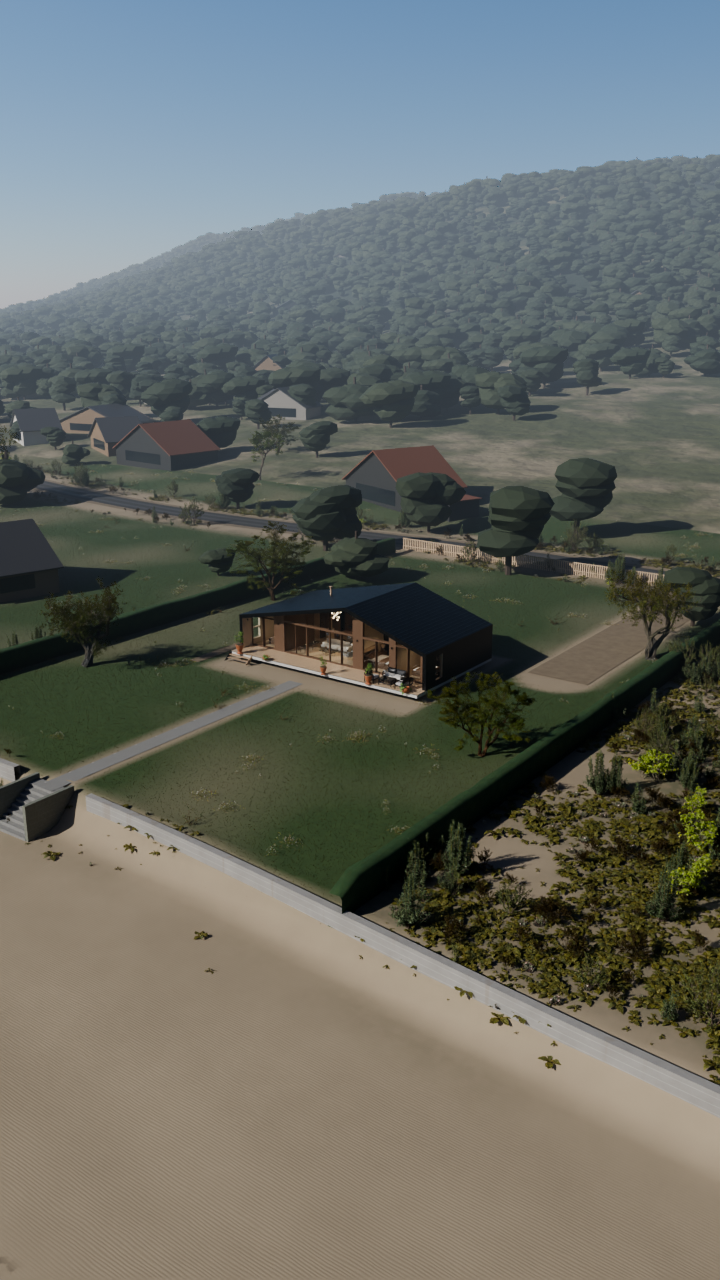
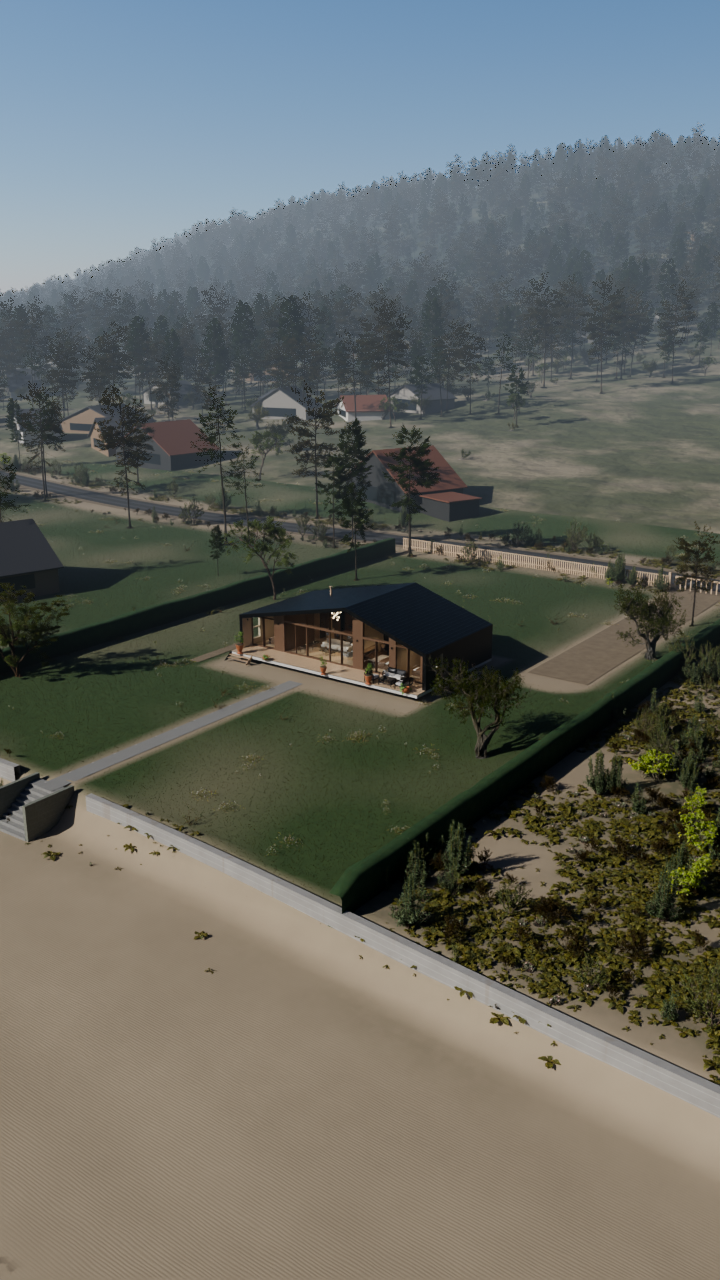
Casa Mañío: árboles de verdad en vez de copas de esferas
La revisión dijo que los árboles se veían muy falsos, y tenía razón: la escena seguía usando el
truco de Huingán —tronco de cilindro más copas de ico-esferas desplazadas con ruido— que allá
pasa porque el bosque queda a 300 m y con bruma. Acá hay grupos de pinos a los dos lados del
camino, a treinta metros de la cámara en el arco frontal, y se leían como brócoli.

Es el mismo problema que ya había aparecido en el lago de Boldo y que RECETA.md advertía. Se
reemplazan `foliage_mat()` y `make_trees()` por `build_trees()`, que carga modelos reales de
Poly Haven (CC0) en dos bandas de detalle: LOD1 para los grupos del condominio y los
antejardines, LOD2 para el bosque del cerro. Pino y ciprés para la masa —que es lo que hay en la
costa central— e island_tree y tree_small para la copa ancha de los jardines. Los baja
`tools/get_assets_lago.sh`, que ya existía para Boldo (1,3 GB, en .gitignore).

De paso el bosque del cerro sube de densidad (0,05 a 0,075 con distancia mínima 4 m), que con
árboles de verdad ya no se ve como una masa sino como pinar.

Cuesta unos 20 s más por cuadro. Vale la pena.

Claude-Session: https://claude.ai/code/session_013App5MGe6WRx2aeTD9LYuY

Changed region(s): [[0.0, 0.0938, 1.0, 0.5312], [0.0, 0.4688, 0.3361, 0.5312], [0.6111, 0.5312, 0.7944, 0.5938]]

diff --git a/casa_manio_3d.py b/casa_manio_3d.py
@@ -69,6 +69,7 @@ ROOT = os.path.dirname(os.path.abspath(__file__))
 CASA = os.path.join(ROOT, "assets", "manio", "casa.blend")
 CAMPO = os.path.join(ROOT, "assets", "campo", "pastos_botaniq.blend")
 PH = os.path.join(ROOT, "assets", "playa", "ph")   # Poly Haven (get_assets_playa.sh + get_assets_urbano.sh)
+PHL = os.path.join(ROOT, "assets", "lago", "ph")   # árboles de verdad (tools/get_assets_lago.sh)
 HDRI = os.path.join(PH, "hdri", "secluded_beach_2k.exr")   # tarde de verano en la costa, CC0
 HDRI_SUN_U = 0.6420          # columna del sol en el HDRI (0-1), medida con tools/medir_sol_hdri.py
 SUN_ELEV = 32.0              # elevación del sol en el HDRI (más alto que en Huingán: es verano)
@@ -1055,12 +1056,12 @@ def build_landscape(M):
 
 
 # ---------------------------------------------------------------- vegetación
-def load_ph(lib, ident, lod="LOD1", tag=None, nombres=None):
+def load_ph(lib, ident, lod="LOD1", tag=None, nombres=None, base=None):
     """Variantes de un modelo de Poly Haven (una por letra), en el nivel de detalle pedido, como
     colección para instanciar al azar. Se dejan en el origen. `nombres` pide objetos exactos, que
     es lo que hace falta con los árboles: sus .blend traen además ramas, hojas y troncos sueltos
     que no son el árbol entero (si se toman todos, el Pick Instance planta troncos pelados)."""
-    path = os.path.join(PH, ident, ident + ".blend")
+    path = os.path.join(base or PH, ident, ident + ".blend")
     with bpy.data.libraries.load(path) as (a, b):
         if nombres is not None:
             names = [n for n in a.objects if n in set(nombres)]
@@ -1428,14 +1429,15 @@ def build_cierros(M, coll):
         z + 1.14, z + 1.30, M["fachada"], coll)
 
 
-def place_ornamentales(coll, orn, pinos):
+def place_ornamentales(coll, orn, cerca):
     """Arbolado del condominio. **No hay hilera de árboles de vereda**: la versión anterior
     alineaba jacarandás cada 30 m sobre la vereda y eso es lo que hace que una calle se lea como
     calle de ciudad. Acá los árboles van en grupos irregulares entre los predios y a lo largo del
     camino, con pinos y cipreses —que es lo que hay en la costa central— y algún ornamental de
     hoja ancha en los antejardines."""
-    arb = list(orn.objects)
-    pin = list(pinos)
+    # las coníferas hacen la masa del condominio; la copa ancha va en los antejardines
+    pin = [o for o in cerca.objects if "fir_" in o.name or "pine_" in o.name]
+    arb = [o for o in cerca.objects if o not in pin] + list(orn.objects)
     rnd = random.Random(17)
 
     def poner(x, y, s, fuente=None, giro=None):
@@ -1463,7 +1465,7 @@ def place_ornamentales(coll, orn, pinos):
             xx = x + rnd.uniform(-5, 5)
             poner(xx, lote_y(xx, dd), rnd.uniform(9.0, 16.0), pin)
     # nuestro antejardín: a los costados, nunca delante del ventanal corrido
-    for x, dd, s in ((-7.5, 40.0, 6.5), (23.5, 43.0, 5.0), (-8.5, 62.0, 7.0), (24.5, 66.0, 6.0),
+    for x, dd, s in ((-9.5, 36.0, 6.5), (23.5, 43.0, 5.0), (-8.5, 62.0, 7.0), (24.5, 66.0, 6.0),
                      (-7.0, 72.0, 9.0), (24.0, 76.0, 8.5)):
         poner(x, lote_y(x, dd), s, pin if s > 8 else None)
     # jardines de los vecinos, en grupos sueltos
@@ -1570,68 +1572,47 @@ def build_neighbors(coll):
             ob.rotation_euler = (0, 0, math.radians(rot))
 
 
-def foliage_mat(name, c1, c2):
-    m, n, l = new_mat(name)
-    N = Nodos(n, l)
-    b = n["Principled BSDF"]
-    info = n.new("ShaderNodeObjectInfo")
-    tc = n.new("ShaderNodeTexCoord")
-    v = N.math("ADD", N.math("MULTIPLY", info.outputs["Random"], 0.6), N.math("MULTIPLY", N.noise(tc.outputs["Object"], 3.0, 4), 0.4))
-    l.new(N.mix(v, c1, c2), b.inputs["Base Color"])
-    b.inputs["Roughness"].default_value = 0.85
-    bmp = n.new("ShaderNodeBump")
-    bmp.inputs["Strength"].default_value = 0.8
-    l.new(N.noise(tc.outputs["Object"], 4.0, 4), bmp.inputs["Height"])
-    l.new(bmp.outputs["Normal"], b.inputs["Normal"])
-    return m
+def build_trees(lib):
+    """Árboles reales de Poly Haven (CC0, tools/get_assets_lago.sh), en dos bandas de detalle:
+      cerca  LOD1, para los grupos del condominio y los antejardines (hasta ~120 m)
+      lejos  LOD2 en las coníferas, para el cerro y el fondo
+
+    **No son de relleno.** La primera versión usaba el truco de Huingán —tronco de cilindro más
+    copas de ico-esferas desplazadas con ruido— que allá pasaba porque el bosque quedaba a 300 m
+    y con bruma. Acá los árboles están **dentro** de la escena: grupos de pinos a los dos lados
+    del camino, a treinta metros de la cámara en el arco frontal, y ahí las bolas desplazadas se
+    leen como brócoli. Es exactamente lo que ya había pasado en el lago de Boldo (ver RECETA.md
+    §5): con modelos de verdad la escena cambia por completo.
+
+    Pino y ciprés para la masa (que es lo que hay en la costa central: pino insigne y ciprés
+    macrocarpa de cortina), island_tree y tree_small para la copa ancha de los jardines."""
+    cerca = bpy.data.collections.new("ArbolesCerca")
+    lejos = bpy.data.collections.new("ArbolesLejos")
+    for c in (cerca, lejos):
+        lib.children.link(c)
+    conif = [f"{t}_tree_01_{v}" for t in ("fir", "pine") for v in "abc"]
+    ancha = ["island_tree_01", "island_tree_02", "island_tree_03"]
+    for dest, lod_c in ((cerca, "LOD1"), (lejos, "LOD2")):
+        for ident in ("fir_tree_01", "pine_tree_01"):
+            load_ph(dest, ident, base=PHL, nombres=[f"{n}_{lod_c}" for n in conif])
+        for ident in ancha:
+            load_ph(dest, ident, base=PHL, nombres=[f"{ident}_LOD1", f"{ident}_a_LOD1"])
+        load_ph(dest, "tree_small_02", base=PHL, nombres=["tree_small_02_LOD1"])
+    for c in (cerca, lejos):
+        # las colecciones de load_ph quedan anidadas; se aplanan para que Pick Instance las vea
+        for sub in list(c.children):
+            for o in list(sub.objects):
+                sub.objects.unlink(o)
+                c.objects.link(o)
+            c.children.unlink(sub)
+            bpy.data.collections.remove(sub)
+        print("  %-14s %2d árboles  alturas %s"
+              % (c.name, len(c.objects), sorted(round(o.dimensions.z, 1) for o in c.objects)))
+    return cerca, lejos
 
 
-def make_trees(lib):
-    """Pinos y cipreses macrocarpa simples (sólo se ven a lo lejos): tronco + copas irregulares."""
-    bark = principled("Corteza", (0.08, 0.06, 0.045), 0.9)
-    pino = foliage_mat("CopaPino", (0.018, 0.03, 0.016), (0.045, 0.06, 0.03))
-    cipres = foliage_mat("CopaCipres", (0.022, 0.036, 0.018), (0.055, 0.07, 0.033))
-    out = []
-    rnd = random.Random(3)
-    for k in range(4):
-        parts = []
-        h = rnd.uniform(9, 15)
-        bpy.ops.mesh.primitive_cylinder_add(vertices=6, radius=0.22, depth=h, location=(0, 0, h / 2))
-        parts.append(bpy.context.object)
-        parts[-1].data.materials.append(bark)
-        cyp = k >= 2
-        for j in range(5 if cyp else 4):
-            bpy.ops.mesh.primitive_ico_sphere_add(subdivisions=2, radius=1.0)
-            c = bpy.context.object
-            if cyp:   # macrocarpa: copa ancha y aplanada, en capas
-                c.location = (rnd.uniform(-1.5, 1.5), rnd.uniform(-1.5, 1.5), h * rnd.uniform(0.55, 0.95))
-                c.scale = (rnd.uniform(2.5, 3.5), rnd.uniform(2.5, 3.5), rnd.uniform(1.3, 1.9))
-            else:     # pino: copa alta y redondeada
-                c.location = (rnd.uniform(-0.8, 0.8), rnd.uniform(-0.8, 0.8), h * (0.72 + 0.08 * j))
-                c.scale = (rnd.uniform(1.8, 2.6), rnd.uniform(1.8, 2.6), rnd.uniform(0.9, 1.3))
-            dsp = c.modifiers.new("d", "DISPLACE")
-            tex = bpy.data.textures.new(f"copa{k}{j}", "CLOUDS")
-            tex.noise_scale = 0.6
-            dsp.texture, dsp.strength = tex, 0.6
-            c.data.materials.append(cipres if cyp else pino)
-            parts.append(c)
-        bpy.ops.object.select_all(action="DESELECT")
-        for o in parts:
-            o.select_set(True)
-        bpy.context.view_layer.objects.active = parts[0]
-        bpy.ops.object.convert(target="MESH")
-        bpy.ops.object.join()
-        t = bpy.context.object
-        t.name = f"Arbol{k}"
-        for c in t.users_collection:
-            c.objects.unlink(t)
-        lib.objects.link(t)
-        out.append(t)
-    return out
-
-
-def build_far_trees(far, trees):
-    """Arboledas del paisaje lejano: pinos y macrocarpas entre las casas del balneario y en los
+def build_far_trees(far, arboles):
+    """Arboledas del paisaje lejano: pinos y cipreses entre las casas del condominio y en los
     cerros del fondo; nunca en la playa ni dentro del predio (atributo 'bosque'). En un balneario
     costero el arbolado **sigue a las casas**, así que el término que más pesa es la cercanía a un
     vecino: es lo que hace que el cerro se lea poblado y no como un bosque virgen."""
@@ -1650,12 +1631,6 @@ def build_far_trees(far, trees):
         w.append(a * min(1.0, max(0.0, (clump - 0.42) * 2.8 + 1.1 * hill + 1.0 * near_house)))
     at = me.attributes.new("bosque", "FLOAT", "POINT")
     at.data.foreach_set("value", w)
-    lib_c = bpy.data.collections.new("Arboles")
-    bpy.data.collections["Biblioteca"].children.link(lib_c)
-    for t in trees:
-        for c in t.users_collection:
-            c.objects.unlink(t)
-        lib_c.objects.link(t)
     ng = bpy.data.node_groups.new("Arboleda", "GeometryNodeTree")
     ng.interface.new_socket("Geometry", in_out="INPUT", socket_type="NodeSocketGeometry")
     ng.interface.new_socket("Geometry", in_out="OUTPUT", socket_type="NodeSocketGeometry")
@@ -1664,7 +1639,7 @@ def build_far_trees(far, trees):
     dist = N.new("GeometryNodeDistributePointsOnFaces")
     dist.distribute_method = "POISSON"
     dist.inputs["Distance Min"].default_value = 4.0
-    dist.inputs["Density Max"].default_value = 0.022
+    dist.inputs["Density Max"].default_value = 0.075
     na = N.new("GeometryNodeInputNamedAttribute")
     na.data_type = "FLOAT"
     na.inputs["Name"].default_value = "bosque"
@@ -1672,7 +1647,7 @@ def build_far_trees(far, trees):
     Lk.new(gi.outputs[0], dist.inputs["Mesh"])
     ins = N.new("GeometryNodeInstanceOnPoints")
     ci = N.new("GeometryNodeCollectionInfo")
-    ci.inputs["Collection"].default_value = lib_c
+    ci.inputs["Collection"].default_value = arboles
     ci.inputs["Separate Children"].default_value = True
     ci.inputs["Reset Children"].default_value = True
     ins.inputs["Pick Instance"].default_value = True
@@ -1680,7 +1655,7 @@ def build_far_trees(far, trees):
     ri.data_type = "INT"
     for sk in ri.inputs:
         if sk.type == "INT" and sk.name in ("Min", "Max"):
-            sk.default_value = 0 if sk.name == "Min" else len(trees) - 1
+            sk.default_value = 0 if sk.name == "Min" else len(arboles.objects) - 1
     rr = N.new("FunctionNodeRandomValue")
     rr.data_type = "FLOAT_VECTOR"
     rr.inputs["Max"].default_value = (0.05, 0.05, 6.28)
@@ -1688,7 +1663,7 @@ def build_far_trees(far, trees):
     rs.data_type = "FLOAT"
     for sk in rs.inputs:
         if sk.type == "VALUE" and sk.name in ("Min", "Max"):
-            sk.default_value = 0.7 if sk.name == "Min" else 1.3
+            sk.default_value = 0.6 if sk.name == "Min" else 1.25
     Lk.new(dist.outputs["Points"], ins.inputs["Points"])
     Lk.new(ci.outputs[0], ins.inputs["Instance"])
     Lk.new(next(o for o in ri.outputs if o.type == "INT"), ins.inputs["Instance Index"])
@@ -1711,9 +1686,9 @@ def build_context(M, orn):
     build_camino(M, coll)
     build_cierros(M, coll)
     build_neighbors(coll)
-    arboles = make_trees(bpy.data.collections["Biblioteca"])
-    place_ornamentales(coll, orn, arboles)
-    build_far_trees(bpy.data.objects["Lejos"], arboles)
+    cerca, lejos = build_trees(bpy.data.collections["Biblioteca"])
+    place_ornamentales(coll, orn, cerca)
+    build_far_trees(bpy.data.objects["Lejos"], lejos)
 
 
 # ---------------------------------------------------------------- cielo, render y cámara

diff --git a/CLAUDE.md b/CLAUDE.md
@@ -141,6 +141,11 @@ renderizar**: es lo único que no se deduce del STL y equivocarse cuesta horas.
   La primera versión era una costanera urbana y la revisión la rechazó: lo que la delataba eran
   los postes con tendido aéreo, la calzada ancha con solera y vereda de hormigón, y los vecinos
   repetidos en filas. Al heredar esto en Ciprés, partir de la **segunda** versión.
+  **Los árboles van con modelos reales, no con el truco de Huingán.** Acá hay grupos de pinos a
+  los dos lados del camino, a treinta metros de la cámara: las copas de ico-esferas desplazadas
+  se leen como brócoli (la revisión lo dijo así: "los árboles se ven muy falsos"). Es el mismo
+  problema que ya había aparecido en el lago de Boldo. `build_trees()` carga pino y ciprés en dos
+  bandas de detalle (LOD1 cerca, LOD2 para el cerro) de `tools/get_assets_lago.sh`.
   Ojo además con tres cosas: la playa tiene que ser **ancha** (con la duna angosta de Huingán la
   cámara se planta sobre el muro y el mar queda fuera de cuadro), el ripple de arena hay que
   apagarlo donde hay césped, y la franja húmeda del muro se mide con un atributo de altura y no
@@ -175,8 +180,10 @@ renderizar (nada de ello va al repo, son ~650 MB).
   libxfixes3 libsm6 libice6 libxkbcommon0 libwayland-client0`. Los avisos `EGL_BAD_MATCH` que
   quedan son inofensivos (no hay pantalla): el render igual se guarda.
 - Recursos de Poly Haven de Huingan (251 MB, en .gitignore): `tools/get_assets_playa.sh`.
-- Recursos de Mañío: `tools/get_assets_playa.sh` **y** `tools/get_assets_urbano.sh` (alumbrado,
-  jacarandá, arbustos de jardín, maceteros y texturas de pavimento; ~60 MB más).
+- Recursos de Mañío: `tools/get_assets_playa.sh`, `tools/get_assets_urbano.sh` (jacarandá,
+  arbustos de jardín, maceteros y texturas de pavimento; ~60 MB) **y**
+  `tools/get_assets_lago.sh` (los árboles de verdad: pino, ciprés, island_tree y tree_small,
+  1,3 GB). Los árboles no son opcionales: ver la nota de abajo.
 - Recursos de Boldo: `tools/get_assets_playa.sh` (matorral y rocas) **y**
   `tools/get_assets_lago.sh` (árboles y sotobosque, 1,3 GB), más
   `tools/get_assets_hdri.sh lago`.

diff --git a/PENDIENTES.md b/PENDIENTES.md
@@ -206,8 +206,10 @@ Lo que se construyó sobre la base de Huingán:
   55 matas/m²) con el terreno teñido de verde debajo, setos recortados en los deslindes, macizos
   de arbustos de jardín, jacarandás alineados en la vereda y árboles ornamentales de antejardín.
   El matorral costero silvestre queda sólo en los **sitios baldíos** y al pie del muro.
-- ✅ **Recursos nuevos**: `tools/get_assets_urbano.sh` (alumbrado, jacarandá, island_tree,
-  arbustos de jardín, maceteros, asfalto y hormigón de Poly Haven CC0).
+- ✅ **Recursos nuevos**: `tools/get_assets_urbano.sh` (jacarandá, island_tree, arbustos de
+  jardín, maceteros, asfalto y hormigón de Poly Haven CC0) y `tools/get_assets_lago.sh`, que
+  ya existía para Boldo y acá trae los **árboles de verdad** (pino, ciprés, island_tree,
+  tree_small) en dos bandas de detalle.
 
 Tres cosas que costaron y conviene no repetir en Ciprés:
 
@@ -228,6 +230,11 @@ Tres cosas que costaron y conviene no repetir en Ciprés:
 5. **El césped no admite mucha variación.** La modulación de ruido que sirve para el matorral
    (0,75 + 0,9·ruido) deja medio jardín a mitad de verde y se ve pajoso; un césped regado va con
    0,92 + 0,5·ruido, o sea casi parejo.
+6. **Los árboles de relleno de Huingán no sirven acá**, igual que no servían en Boldo. El tronco
+   de cilindro con copas de ico-esferas desplazadas pasa a 300 m y con bruma; en un condominio
+   hay pinos a treinta metros de la cámara y se leen como brócoli. Cuesta 1,3 GB de descarga
+   (`tools/get_assets_lago.sh`) y unos segundos más por cuadro, y es de los cambios que más mueve
+   la aguja. **Si la escena tiene árboles cerca, se bajan los modelos y punto.**
 
 **Falta para Ciprés (norte, seco):**
 - 🟢 Nada que descargar: `flamingo_pan_2k.exr` ya está y es el más árido de los cinco. Hay que

diff --git a/RECETA.md b/RECETA.md
@@ -265,6 +265,12 @@ muerto. Las espigas en contraluz con el sol bajo son lo que da el efecto.
   Sacadas esas tres cosas la misma escena se lee como condominio. Para Ciprés, partir de la
   segunda versión.
 
+  **Y los árboles van con modelos reales.** El truco de Huingán (tronco de cilindro + copas de
+  ico-esferas desplazadas) pasa a 300 m con bruma, pero en un condominio hay pinos a treinta
+  metros de la cámara y se leen como brócoli. Es la misma lección del lago de Boldo, y vale para
+  cualquier escena con árboles cerca: `build_trees()` carga pino y ciprés de
+  `tools/get_assets_lago.sh` en dos bandas de detalle (LOD1 cerca, LOD2 en el cerro).
+
   Otras tres trampas: la **playa tiene que ser ancha** (con los 13 m de Huingán el encuadre
   adaptable pone la cámara sobre el muro y el mar queda fuera de cuadro); el **ripple de arena**
   hay que apagarlo donde hay césped (la rampa de Huingán lo deja encendido tierra adentro y el
